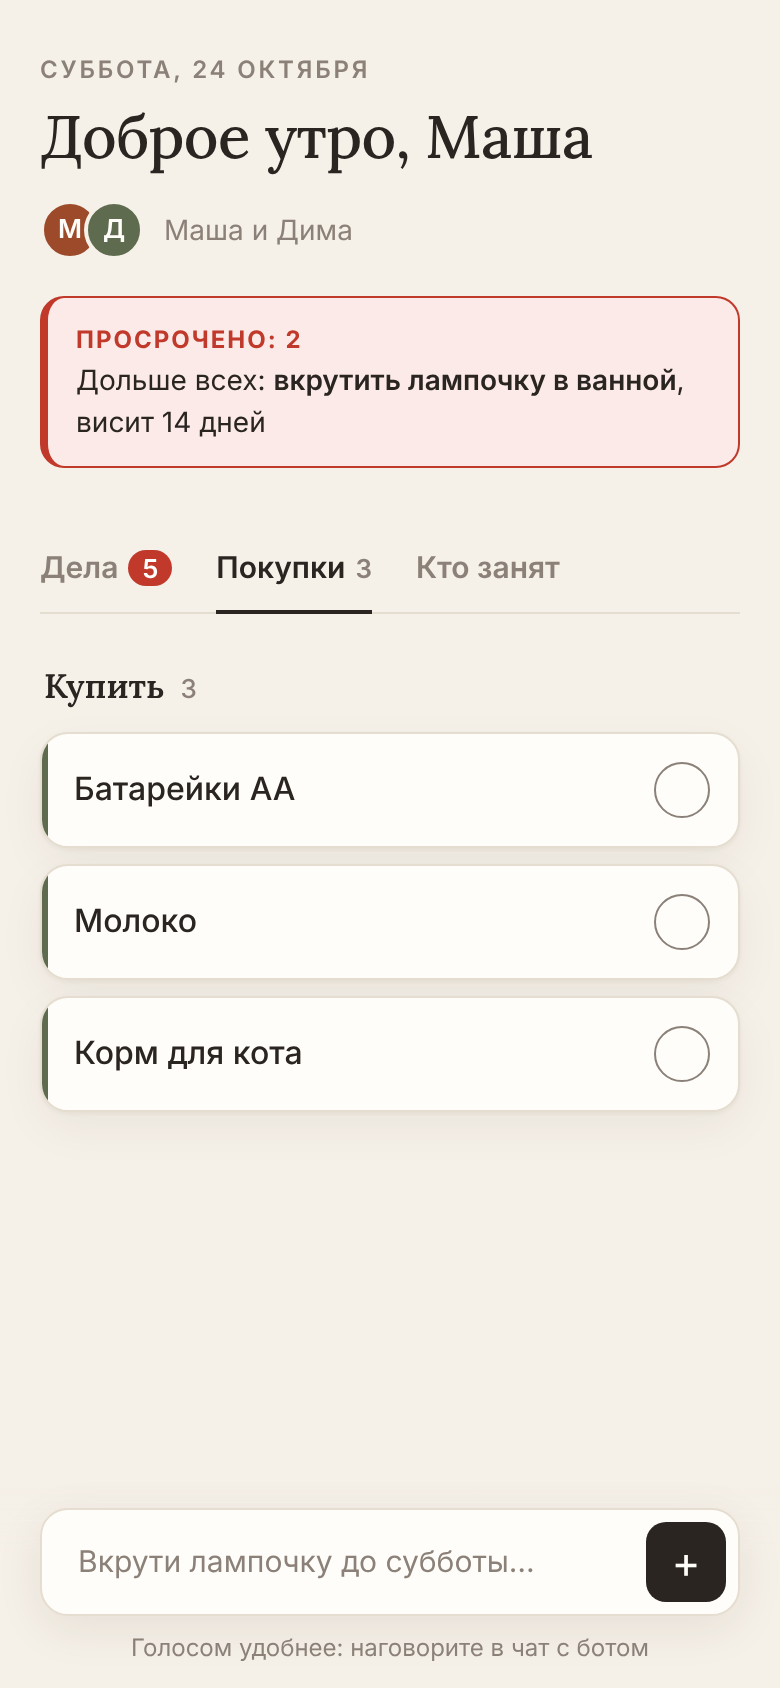
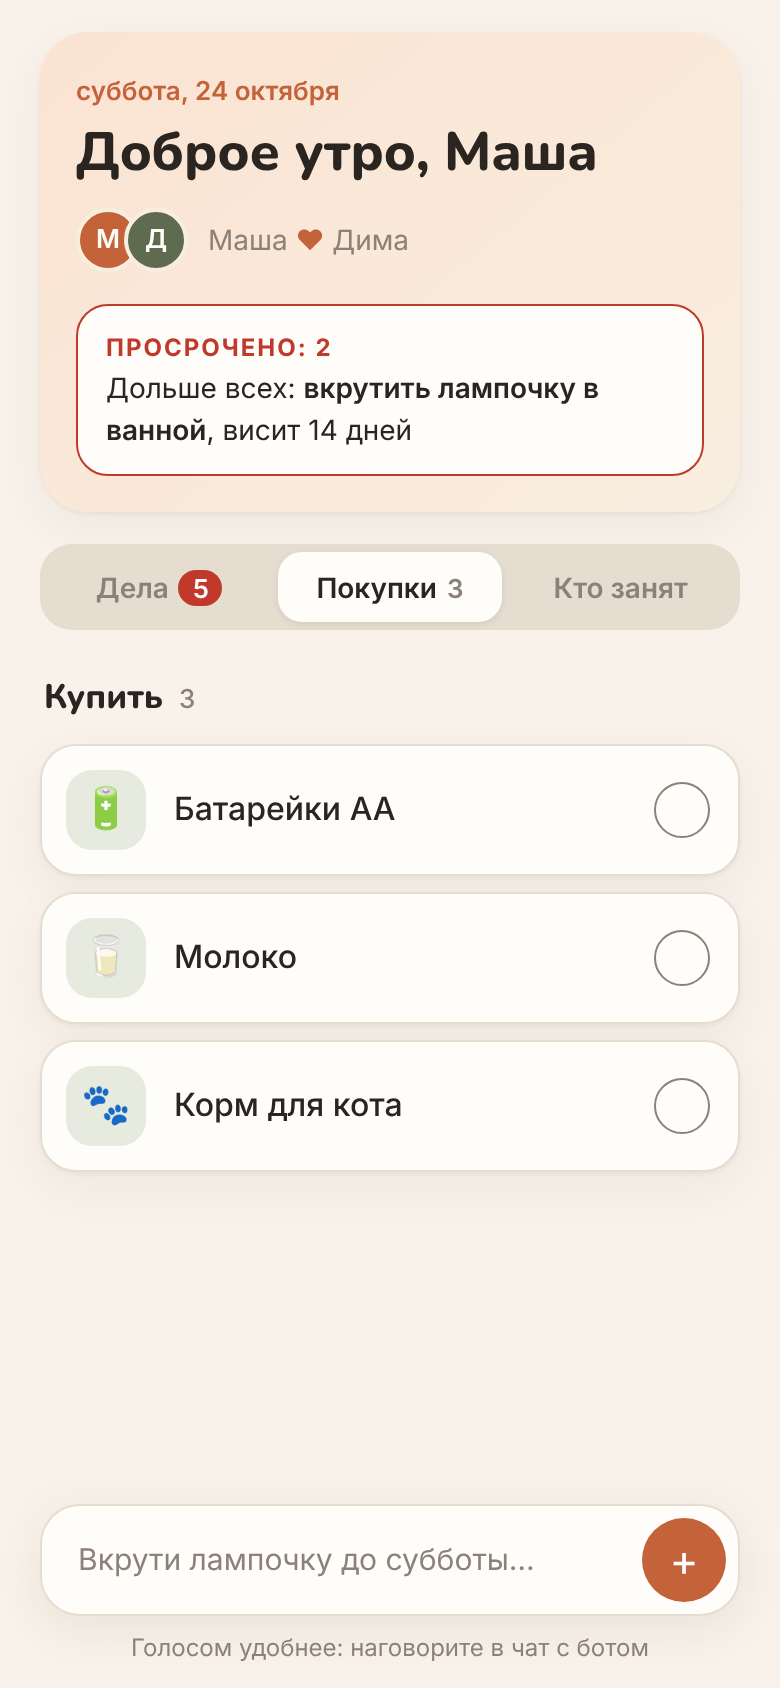
Мини-приложение: середина между уютным и строгим дизайном
Тёплая шапка-карточка, мягкие иконки к делам, округлые заголовки, пилюли вкладок.

Claude-Session: https://claude.ai/code/session_01K4WBGGq4fEqRaNC21ns6ax

diff --git a/webapp/index.html b/webapp/index.html
@@ -6,11 +6,11 @@
 <title>Обещал — сделал</title>
 <script src="https://telegram.org/js/telegram-web-app.js"></script>
 <link rel="preconnect" href="https://fonts.googleapis.com">
-<link href="https://fonts.googleapis.com/css2?family=Lora:ital,wght@0,500;0,600;1,500&family=Inter:wght@400;500;600;700&display=swap" rel="stylesheet">
+<link href="https://fonts.googleapis.com/css2?family=Nunito:wght@700;800&family=Inter:wght@400;500;600;700&display=swap" rel="stylesheet">
 <style>
 :root{
-  --bg:#F5F0E8; --paper:#FFFDF9; --ink:#2A2521; --muted:#8B8178; --line:#E6DDD1;
-  --accent:#9C4A2A; --accent-soft:#F1E3D8; --olive:#5F6B4E; --olive-soft:#E7EADF;
+  --bg:#F8F2EA; --paper:#FFFDFA; --ink:#2A2521; --muted:#8B8178; --line:#E6DDD1;
+  --accent:#C4623A; --accent-soft:#F8E4D8; --peach1:#FBE3D2; --peach2:#F8EEDF; --olive:#5F6B4E; --olive-soft:#E7EADF;
   --plum:#6E4A5E; --plum-soft:#EFE5EA; --slate:#4F6475; --slate-soft:#E3E9EE;
   --hot:#C0392B; --hot-soft:#FBEAE7; --hot-glow:rgba(192,57,43,.16);
   --shadow:0 1px 2px rgba(60,40,20,.05), 0 8px 24px rgba(60,40,20,.05);
@@ -18,55 +18,55 @@
 @media (prefers-color-scheme: dark){
   :root:not([data-theme="light"]){
     --bg:#181512; --paper:#221E1A; --ink:#EDE6DD; --muted:#9A8F84; --line:#352F29;
-    --accent:#D08A63; --accent-soft:#3A2A20; --olive:#A3B08C; --olive-soft:#2A2E22;
+    --accent:#E08A62; --accent-soft:#3A2A20; --peach1:#3A281E; --peach2:#2C241D; --olive:#A3B08C; --olive-soft:#2A2E22;
     --plum:#C99BB3; --plum-soft:#35262E; --slate:#95ADC0; --slate-soft:#232C33;
     --hot:#F0645A; --hot-soft:#3A1D1A; --hot-glow:rgba(240,100,90,.22); --shadow:none;
   }
 }
 :root[data-theme="dark"]{
   --bg:#181512; --paper:#221E1A; --ink:#EDE6DD; --muted:#9A8F84; --line:#352F29;
-  --accent:#D08A63; --accent-soft:#3A2A20; --olive:#A3B08C; --olive-soft:#2A2E22;
+  --accent:#E08A62; --accent-soft:#3A2A20; --peach1:#3A281E; --peach2:#2C241D; --olive:#A3B08C; --olive-soft:#2A2E22;
   --plum:#C99BB3; --plum-soft:#35262E; --slate:#95ADC0; --slate-soft:#232C33;
   --hot:#F0645A; --hot-soft:#3A1D1A; --hot-glow:rgba(240,100,90,.22); --shadow:none;
 }
 *{box-sizing:border-box;-webkit-tap-highlight-color:transparent}
 body{margin:0;background:var(--bg);color:var(--ink);font:400 15px/1.45 Inter,system-ui,sans-serif;padding:0 20px 130px}
 button{font-family:inherit}
-.serif{font-family:Lora,Georgia,serif}
+.serif{font-family:Nunito,Inter,sans-serif}
 
-header{padding:26px 0 6px}
-.date{font-size:12px;font-weight:600;letter-spacing:1.4px;text-transform:uppercase;color:var(--muted)}
-.hello{font-family:Lora,Georgia,serif;font-weight:500;font-size:30px;line-height:1.15;margin:8px 0 14px;letter-spacing:-.3px}
+header{margin:16px 0 4px;padding:20px 18px 18px;border-radius:24px;background:linear-gradient(140deg,var(--peach1),var(--peach2));box-shadow:var(--shadow)}
+.date{font-size:13px;font-weight:600;color:var(--accent)}
+.hello{font-family:Nunito,Inter,sans-serif;font-weight:800;font-size:27px;line-height:1.15;margin:6px 0 12px;letter-spacing:-.2px}
 .pair{display:flex;align-items:center;gap:10px;font-size:14px;color:var(--muted)}
 .avas{display:flex}
-.ava{width:30px;height:30px;border-radius:50%;display:grid;place-items:center;font-weight:600;font-size:13px;color:var(--paper);border:2px solid var(--bg)}
+.ava{width:32px;height:32px;border-radius:50%;display:grid;place-items:center;font-weight:600;font-size:13px;color:var(--paper);border:2px solid var(--peach2)}
 .ava.me{background:var(--accent)}
 .ava.you{background:var(--olive);margin-left:-8px}
 .ava.wait{background:var(--line);color:var(--muted);margin-left:-8px}
-.oldest{margin:18px 0 0;padding:12px 14px;border-radius:12px;background:var(--paper);border:1px solid var(--line);font-size:14px}
+.oldest{margin:16px 0 0;padding:12px 14px;border-radius:16px;background:var(--paper);font-size:14px}
 .oldest b{font-weight:600}
-.oldest.alarm{background:var(--hot-soft);border:1px solid var(--hot);border-left:4px solid var(--hot);color:var(--ink)}
+.oldest.alarm{background:var(--paper);border:1.5px solid var(--hot);color:var(--ink)}
 .oldest.alarm .lbl{color:var(--hot);font-weight:700;text-transform:uppercase;letter-spacing:1px;font-size:12px;display:block;margin-bottom:2px}
 
 .invite{background:var(--paper);border:1px solid var(--line);border-radius:12px;padding:14px;margin:14px 0;display:flex;gap:12px;align-items:center}
 .invite p{margin:0;flex:1;font-size:14px;color:var(--muted)}
-.btn{border:0;border-radius:10px;background:var(--ink);color:var(--paper);font-weight:600;font-size:14px;padding:10px 16px;cursor:pointer}
+.btn{border:0;border-radius:12px;background:var(--accent);color:#fff;font-weight:600;font-size:14px;padding:10px 16px;cursor:pointer}
 
-.tabs{display:flex;gap:22px;border-bottom:1px solid var(--line);margin:18px 0 4px;position:sticky;top:0;z-index:2;background:var(--bg);padding-top:8px}
-.tabs button{border:0;background:none;color:var(--muted);font-weight:600;font-size:15px;padding:8px 0 12px;cursor:pointer;border-bottom:2px solid transparent;margin-bottom:-1px}
-.tabs button.on{color:var(--ink);border-color:var(--ink)}
+.tabs{display:flex;gap:4px;background:var(--line);padding:4px;border-radius:16px;margin:16px 0 4px;position:sticky;top:8px;z-index:2}
+.tabs button{flex:1;border:0;background:none;color:var(--muted);font-weight:600;font-size:14px;padding:9px 4px;cursor:pointer;border-radius:12px}
+.tabs button.on{color:var(--ink);background:var(--paper);box-shadow:0 1px 3px rgba(60,40,20,.1)}
 .tabs b{font-weight:600;color:var(--muted);margin-left:5px;font-size:13px}
 .tabs b.hot{color:#fff;background:var(--hot);border-radius:9px;padding:1px 7px}
 .tabs b:empty{display:none}
 
-h3{display:flex;align-items:baseline;gap:8px;font-family:Lora,Georgia,serif;font-weight:600;font-size:17px;margin:24px 2px 10px}
+h3{display:flex;align-items:baseline;gap:8px;font-family:Nunito,Inter,sans-serif;font-weight:800;font-size:17px;margin:22px 2px 10px}
 h3 small{font-family:Inter,sans-serif;font-weight:500;color:var(--muted);font-size:13px}
 h3.hot{color:var(--hot)}
 
-.item{background:var(--paper);border:1px solid var(--line);border-radius:14px;padding:14px 14px 14px 16px;margin-bottom:8px;display:flex;gap:14px;align-items:center;
+.item{background:var(--paper);border:1px solid var(--line);border-radius:18px;padding:12px 14px 12px 12px;margin-bottom:8px;display:flex;gap:14px;align-items:center;
   box-shadow:var(--shadow);transition:opacity .3s,transform .3s;cursor:pointer;position:relative;overflow:hidden}
-.item::before{content:"";position:absolute;left:0;top:0;bottom:0;width:3px;background:var(--kind)}
-.k-task{--kind:var(--accent)} .k-event{--kind:var(--plum)} .k-buy{--kind:var(--olive)} .k-busy{--kind:var(--slate)}
+.blob{width:40px;height:40px;border-radius:13px;display:grid;place-items:center;font-size:20px;flex:none;background:var(--kind-soft)}
+.k-task{--kind-soft:var(--accent-soft)} .k-event{--kind-soft:var(--plum-soft)} .k-buy{--kind-soft:var(--olive-soft)} .k-busy{--kind-soft:var(--slate-soft)}
 .item.gone{opacity:0;transform:translateX(24px)}
 .body{flex:1;min-width:0}
 .text{font-weight:500;font-size:16px;word-wrap:break-word;line-height:1.3}
@@ -77,7 +77,7 @@ h3.hot{color:var(--hot)}
 .meta .late{color:var(--hot);font-weight:700}
 .warn{font-size:13px;color:var(--plum);margin-top:8px;padding:8px 10px;border-radius:8px;background:var(--plum-soft)}
 .item.hot{background:var(--hot-soft);border-color:var(--hot);animation:alarm 2s ease-in-out infinite}
-.item.hot::before{width:5px;background:var(--hot)}
+.item.hot .blob{background:var(--paper)}
 .item.hot .text{color:var(--hot);font-weight:600}
 .item.hot .check{border-color:var(--hot)}
 @keyframes alarm{0%,100%{box-shadow:0 0 0 0 var(--hot-glow)}50%{box-shadow:0 0 0 6px var(--hot-glow)}}
@@ -87,20 +87,20 @@ h3.hot{color:var(--hot)}
 .item.done .check{background:var(--olive);border-color:var(--olive);color:var(--paper)}
 
 .empty{text-align:center;color:var(--muted);padding:44px 24px}
-.empty .t{font-family:Lora,Georgia,serif;font-size:19px;color:var(--ink);margin-bottom:6px}
+.empty .t{font-family:Nunito,Inter,sans-serif;font-size:19px;color:var(--ink);margin-bottom:6px}
 
 .composer{position:fixed;left:0;right:0;bottom:0;padding:12px 20px calc(12px + env(safe-area-inset-bottom));background:linear-gradient(transparent,var(--bg) 35%)}
-.composer form{display:flex;gap:8px;align-items:center;background:var(--paper);border-radius:14px;padding:6px 6px 6px 16px;border:1px solid var(--line);box-shadow:0 6px 24px rgba(60,40,20,.08)}
+.composer form{display:flex;gap:8px;align-items:center;background:var(--paper);border-radius:20px;padding:6px 6px 6px 16px;border:1px solid var(--line);box-shadow:0 6px 24px rgba(60,40,20,.08)}
 .composer input{flex:1;border:0;background:none;color:var(--ink);font:400 15px Inter,sans-serif;outline:none;min-width:0}
 .composer input::placeholder{color:var(--muted)}
-.composer .btn{width:40px;height:40px;padding:0;font-size:22px;line-height:1;font-weight:400}
+.composer .btn{width:42px;height:42px;border-radius:50%;padding:0;font-size:22px;line-height:1;font-weight:400}
 .composer .hint{font-size:12px;color:var(--muted);text-align:center;margin-top:7px}
 
 .sheet{position:fixed;inset:0;background:rgba(20,15,10,.4);display:none;align-items:flex-end;z-index:5}
 .sheet.on{display:flex}
 .sheet > div{background:var(--paper);width:100%;border-radius:18px 18px 0 0;padding:10px 20px calc(18px + env(safe-area-inset-bottom))}
 .sheet .grab{width:36px;height:4px;border-radius:2px;background:var(--line);margin:0 auto 14px}
-.sheet .title{font-family:Lora,Georgia,serif;font-weight:600;font-size:19px;margin:0 0 6px}
+.sheet .title{font-family:Nunito,Inter,sans-serif;font-weight:600;font-size:19px;margin:0 0 6px}
 .sheet button{display:block;width:100%;text-align:left;border:0;background:none;color:var(--ink);font-weight:500;font-size:16px;padding:14px 2px;border-bottom:1px solid var(--line);cursor:pointer}
 .sheet button:last-child{border:0;color:var(--muted);text-align:center}
 .sheet button.red{color:var(--hot)}
@@ -139,6 +139,19 @@ if (tg) { tg.ready(); tg.expand(); try { tg.setHeaderColor("bg_color"); } catch(
 
 const $ = id => document.getElementById(id);
 const esc = s => String(s).replace(/[&<>"]/g, c => ({"&":"&amp;","<":"&lt;",">":"&gt;",'"':"&quot;"}[c]));
+
+// A homely picture for each line: by words in the text, else by kind.
+const PICS = [
+  [/корм/,"🐾"],[/лампоч|свет|люстр/,"💡"],[/кот|кош/,"🐈"],[/собак|пес|выгул/,"🐕"],[/полк|повес|дрел|сверл|шуруп/,"🪚"],
+  [/кран|сантех|труб|смесит/,"🚰"],[/мусор/,"🗑"],[/посуд/,"🍽"],[/стир|белье/,"🧺"],[/убор|пылесос|пол\b|окн/,"🧽"],
+  [/мам|родител|дач/,"🏡"],[/кино|фильм/,"🍿"],[/ресторан|ужин|кафе/,"🍷"],[/день рожд|годовщин|подар/,"🎁"],
+  [/врач|ветеринар|больниц|анализ/,"🩺"],[/машин|шин|авто|сто\b/,"🚗"],[/оплат|счет|квартплат|интернет/,"💳"],
+  [/футбол/,"⚽"],[/хоккей/,"🏒"],[/бан[яеию]|сауна/,"🧖"],[/рыбал/,"🎣"],[/маникюр|ногт/,"💅"],[/йог|пилатес|зал|трениров/,"🧘"],
+  [/молок|кефир|сыр|йогурт/,"🥛"],[/хлеб|батон/,"🍞"],[/батарейк/,"🔋"],[/яйц/,"🥚"],[/фрукт|яблок|банан/,"🍎"],
+  [/овощ|картош|морков|помидор/,"🥕"],[/мяс|куриц|фарш/,"🍗"],[/кофе|чай/,"☕"],[/пиво|вино/,"🍷"],[/порош|мыл|шампун|бумаг/,"🧴"],
+];
+const KIND_PIC = {task:"🔧", event:"💞", buy:"🛍", busy:"🗓"};
+const pic = it => (PICS.find(([re]) => re.test(it.text.toLowerCase())) || [0, KIND_PIC[it.kind]])[1];
 
 function demoState(){
   return {brand:"Обещал — сделал", me:{id:1,name:"Маша"}, partner:{id:2,name:"Дима"}, invite:"", items:[
@@ -198,7 +211,7 @@ function itemHtml(it){
   if (it.when) chips.push(`<span class="${it.hot ? "late" : it.when.startsWith("висит") ? "hang" : "when"}">${esc(it.when)}</span>`);
   const warn = (it.warnings || []).map(w => `<div class="warn">${esc(w)}</div>`).join("");
   const check = it.kind === "busy" ? "" : `<button class="check" data-done="${it.id}" aria-label="Сделано">✓</button>`;
-  return `<div class="item k-${it.kind}${it.hot ? " hot" : ""}" id="i${it.id}" data-more="${it.id}">
+  return `<div class="item k-${it.kind}${it.hot ? " hot" : ""}" id="i${it.id}" data-more="${it.id}"><div class="blob">${pic(it)}</div>
     <div class="body"><div class="text">${esc(it.text)}</div>${chips.length ? `<div class="meta">${chips.join("")}</div>` : ""}${warn}</div>${check}</div>`;
 }
 
@@ -213,7 +226,7 @@ function render(){
   $("date").textContent = new Date().toLocaleDateString("ru-RU", {weekday:"long", day:"numeric", month:"long"});
   $("hello").textContent = `${greeting()}, ${me.name}`;
   $("pair").innerHTML = `<span class="avas"><span class="ava me">${initial(me.name)}</span>` +
-    (p ? `<span class="ava you">${initial(p.name)}</span></span><span>${esc(me.name)} и ${esc(p.name)}</span>`
+    (p ? `<span class="ava you">${initial(p.name)}</span></span><span>${esc(me.name)} <span style="color:var(--accent)">♥</span> ${esc(p.name)}</span>`
        : `<span class="ava wait">?</span></span><span>ждём вторую половину</span>`);
   const hot = S.items.filter(i => i.hot);
   const hanging = S.items.filter(i => i.kind === "task" && /^висит/.test(i.when || ""))
